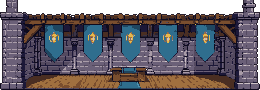
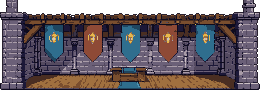
Lanternhold M1b polish 3: no visible repetition (art review, high): the throat rock right of the castle is other rock than the left (throatRock: gorgewall-b's strata with a cave; cliffFlankB: the rocks-a middle rock), so the gate view is no mirror; the ground strip draws one of four tiles per positi

Changed region(s): [[0.5846, 0.2667, 0.7077, 0.6889], [0.3077, 0.2667, 0.4, 0.6889]]

diff --git a/games/lanternhold/Tests/FrameBuilderTests.swift b/games/lanternhold/Tests/FrameBuilderTests.swift
@@ -164,7 +164,7 @@ final class FrameBuilderTests: XCTestCase {
         XCTAssertGreaterThanOrEqual(glass.count, 6, "the keep's and the towers' windows")
         XCTAssertTrue(glass.contains { $0.sprite == .keepTop })
         XCTAssertTrue(glass.contains { $0.sprite == .castleFront })
-        for sprite in [SpriteID.castleFront, .keepTop, .cliffFlank, .gorgeWallHigh] {
+        for sprite in [SpriteID.castleFront, .keepTop, .cliffFlank, .cliffFlankB, .throatRock] {
             XCTAssertTrue(castle.layer(.world).sprites.contains { $0.sprite == sprite }, "\(sprite) at the gate")
         }
         XCTAssertEqual(castle.actors.filter { $0.sprite == .archer }.count, 3, "archers on the wall walk")
@@ -183,7 +183,8 @@ final class FrameBuilderTests: XCTestCase {
         XCTAssertTrue(town.layer(.mid).sprites.contains { $0.sprite == .keepFar }, "the keep seen from the town")
         XCTAssertTrue(town.layer(.mid).sprites.contains { $0.sprite == .windmill })
         var castleWindows = 0
-        for prop in PlaceholderScene.world().props where prop.plane == .world && prop.sprite != .house {
+        let cottages: Set<SpriteID> = [.house, .houseB, .houseC]
+        for prop in PlaceholderScene.world().props where prop.plane == .world && !cottages.contains(prop.sprite) {
             castleWindows += prop.masks.count + prop.emissive.filter { $0.sprite == .windowGlow }.count
         }
         XCTAssertEqual(castleWindows, 17, "keep 2, front 4, courtyard 1, chapel 4, kitchen 2, back gate 4")
@@ -298,7 +299,8 @@ final class FrameBuilderTests: XCTestCase {
         XCTAssertEqual(Camera(focusX: 5000, pixelScale: pixelScale).x, 3900 - pixelScale.visibleColumns)
         let river = frame(timeOfDay: 0.5, focus: 3720)
         let whole = Double(river.layer(.world).offset.whole)
-        let ground = river.layer(.world).sprites.filter { $0.sprite == .ground }
+        let groundTiles: Set<SpriteID> = [.ground, .groundB, .groundC, .groundD]
+        let ground = river.layer(.world).sprites.filter { groundTiles.contains($0.sprite) }
         XCTAssertFalse(ground.isEmpty)
         for tile in ground {
             XCTAssertLessThan(Double(tile.rect.x) + whole, WorldLayout.groundTileEnd, "ground tiles end at the bank")
@@ -418,6 +420,21 @@ final class FrameBuilderTests: XCTestCase {
         }
     }
 
+    func testGroundTilesJoinAndVary() {
+        // Each tile's edges match its neighbours' (the big stone either wraps across a boundary or neither side has
+        // it), and the stones do not repeat at the tile's rhythm.
+        var used: Set<SpriteID> = []
+        for index in 0..<58 {
+            let tile = FrameBuilder.groundTile(index)
+            let next = FrameBuilder.groundTile(index + 1)
+            let rightStone = tile == .ground || tile == .groundC
+            let nextLeftStone = next == .ground || next == .groundB
+            XCTAssertEqual(rightStone, nextLeftStone, "tiles \(index) and \(index + 1) join")
+            used.insert(tile)
+        }
+        XCTAssertEqual(used.count, 4, "all four variants appear along the world")
+    }
+
     func testTheKeepShowsFromTheGorge() {
         // The approach: the keep seen from the gorge stands on its rock plateau above the lowered throat rock, its
         // windows lit at night; the castle front's towers end on screen (their crowns at y 132 to 172).
@@ -446,7 +463,8 @@ final class FrameBuilderTests: XCTestCase {
                 XCTAssertLessThanOrEqual(Int(mask.dy) + mask.height, prop.height, "\(prop.sprite) at \(prop.x)")
             }
         }
-        XCTAssertEqual(masks, 25, "keep 2, front 4, courtyard 1, back gate 4, houses 8, the valley's keep 4, the gorge's 2")
+        XCTAssertEqual(masks, 26,
+                       "keep 2, front 4, courtyard 1, back gate 4, houses 8 and a dormer, the valley's keep 4, the gorge's 2")
         // In a frame each glass quad lies inside its prop's quad, mirrored with it.
         for focus in [1360.0, 1650, 2330, 2900] {
             let desc = frame(timeOfDay: 0.95, focus: focus)
@@ -460,7 +478,7 @@ final class FrameBuilderTests: XCTestCase {
         // A mirrored house's left window shows the sprite's right pane: x 64 − 46 − 5 = 13 from its left edge.
         let town = frame(timeOfDay: 0.95, focus: 2830)
         let whole = Float(town.layer(.world).offset.whole)
-        let mirrored = town.emissives.filter { $0.kind == .glass && $0.sprite == .house && $0.flipped }
+        let mirrored = town.emissives.filter { $0.kind == .glass && $0.sprite == .houseB && $0.flipped }
         XCTAssertTrue(mirrored.contains { $0.rect.x == 2800 + 13 - whole && $0.source.x == 46 })
     }
 
@@ -546,10 +564,10 @@ final class FrameBuilderTests: XCTestCase {
         "torchPost world x=978 y=38 z=2 shade=1.00 flip=0 anchor=ground region=gorge em=[flame@0,12:fireGold:fades] li=[torch@980,53,30]",
         "brazier world x=891 y=0 z=3 shade=1.00 flip=0 anchor=ground region=gorge em=[brazierFlame@1,11:fireOrange:steady] li=[brazier@896,16,56]",
         "brazier world x=915 y=0 z=3 shade=1.00 flip=0 anchor=ground region=gorge em=[brazierFlame@1,11:fireOrange:steady] li=[brazier@920,16,56]",
-        "cliffFlank world x=1110 y=-155 z=-5 shade=0.70 flip=0 anchor=ground region=gorge em=[] li=[]",
-        "gorgeWallHigh world x=1518 y=0 z=-5 shade=0.70 flip=0 anchor=ground region=castle em=[] li=[]",
+        "cliffFlankB world x=1110 y=-155 z=-5 shade=0.70 flip=0 anchor=ground region=gorge em=[] li=[]",
+        "throatRock world x=1518 y=0 z=-5 shade=0.70 flip=0 anchor=ground region=castle em=[] li=[]",
         "cliffFlank world x=1187 y=0 z=-3 shade=0.62 flip=0 anchor=ground region=gorge em=[] li=[]",
-        "cliffFlank world x=1453 y=0 z=-1 shade=0.62 flip=1 anchor=ground region=castle em=[] li=[]",
+        "cliffFlankB world x=1453 y=0 z=-1 shade=0.62 flip=1 anchor=ground region=castle em=[] li=[]",
         "keepTop world x=1286 y=40 z=-4 shade=1.00 flip=0 anchor=ground region=gorge em=[glass@69,30,13x10 glass@113,30,12x10] li=[]",
         "castleFront world x=1240 y=0 z=0 shade=1.00 flip=0 anchor=ground region=gorge em=[brazierFlame@93,130:fireOrange:steady brazierFlame@138,130:fireOrange:steady flame@90,61:fireGold:fades flame@145,61:fireGold:fades glass@29,96,6x15 glass@202,89,6x15 glass@29,69,6x15 glass@202,69,6x15] li=[brazier@1337,136,44 brazier@1382,136,44 torch@1332,64,30 torch@1387,64,30 lantern@1360,40,34]",
         "castleWall world x=1580 y=0 z=-2 shade=1.00 flip=0 anchor=ground region=castle em=[] li=[]",
@@ -567,9 +585,9 @@ final class FrameBuilderTests: XCTestCase {
         "castleBackGate world x=2230 y=0 z=0 shade=1.00 flip=0 anchor=ground region=castle em=[lanternGlass@51,95:fireGold:fades lanternGlass@136,95:fireGold:fades glass@28,107,10x20 glass@166,107,10x20 glass@28,72,10x20 glass@166,72,10x20] li=[lantern@2283,97,40 lantern@2368,97,40 window@2263,117,8 window@2401,117,8]",
         "house world x=2480 y=0 z=0 shade=0.97 flip=0 anchor=ground region=valley em=[glass@11,8,5x6 glass@46,8,5x6] li=[window@2493,11,8 window@2528,11,8]",
         "lanternPost world x=2548 y=0 z=1 shade=1.00 flip=0 anchor=ground region=valley em=[lanternGlass@1,18:fireGold:fades] li=[lantern@2551,20,28]",
-        "house world x=2800 y=0 z=0 shade=0.97 flip=1 anchor=ground region=valley em=[glass@11,8,5x6 glass@46,8,5x6] li=[window@2850,11,8 window@2815,11,8]",
+        "houseB world x=2800 y=0 z=0 shade=0.97 flip=1 anchor=ground region=valley em=[glass@11,8,5x6 glass@46,8,5x6] li=[window@2850,11,8 window@2815,11,8]",
         "lanternPost world x=2868 y=0 z=1 shade=1.00 flip=0 anchor=ground region=valley em=[lanternGlass@1,18:fireGold:fades] li=[lantern@2871,20,28]",
-        "house world x=2900 y=0 z=0 shade=0.97 flip=0 anchor=ground region=valley em=[glass@11,8,5x6 glass@46,8,5x6] li=[window@2913,11,8 window@2948,11,8]",
+        "houseC world x=2900 y=0 z=0 shade=0.97 flip=0 anchor=ground region=valley em=[glass@11,8,5x6 glass@46,8,5x6 glass@27,33,3x2] li=[window@2913,11,8 window@2948,11,8]",
         "lanternPost world x=2968 y=0 z=1 shade=1.00 flip=0 anchor=ground region=valley em=[lanternGlass@1,18:fireGold:fades] li=[lantern@2971,20,28]",
         "house world x=3090 y=0 z=0 shade=0.97 flip=1 anchor=ground region=valley em=[glass@11,8,5x6 glass@46,8,5x6] li=[window@3140,11,8 window@3105,11,8]",
         "lanternPost world x=3158 y=0 z=1 shade=1.00 flip=0 anchor=ground region=valley em=[lanternGlass@1,18:fireGold:fades] li=[lantern@3161,20,28]",

diff --git a/games/lanternhold/Core/SceneLayout.swift b/games/lanternhold/Core/SceneLayout.swift
@@ -273,10 +273,12 @@ enum SceneLayout {
         // straight edges hide behind the towers (the right one in front of the courtyard wall), the keep behind the
         // gatehouse. On the left a rock shoulder 155 px low (its top at y 85), so the keep seen from the gorge rises
         // above it (polish after the art review: the high rock's flat overhang read as a table there).
-        list.append(Entry(sprite: .cliffFlank, x: front - 130, y: -155, z: -5, shade: rockShade))
-        list.append(Entry(sprite: .gorgeWallHigh, x: front + 278, y: 0, z: -5, shade: rockShade))
+        list.append(Entry(sprite: .cliffFlankB, x: front - 130, y: -155, z: -5, shade: rockShade))
+        // The right side is other rock than the left (strata with a cave, the rocks-a middle rock as its flank), so
+        // the gate view is no mirror and the rock does not repeat like wallpaper.
+        list.append(Entry(sprite: .throatRock, x: front + 278, y: 0, z: -5, shade: rockShade))
         list.append(Entry(sprite: .cliffFlank, x: front - 53, y: 0, z: -3, shade: flankShade))
-        list.append(Entry(sprite: .cliffFlank, x: front + 213, y: 0, z: -1, shade: flankShade, flipped: true))
+        list.append(Entry(sprite: .cliffFlankB, x: front + 213, y: 0, z: -1, shade: flankShade, flipped: true))
         // Only the keep's top 130 rows stand behind the gatehouse, 40 px up, so its crown and flag rise above the
         // gatehouse between the towers' crowns (top at y 170); the front hides its top window row (the lower 10 rows
         // of each window would glow: lamplight low in the room).
@@ -338,12 +340,16 @@ enum SceneLayout {
 
         // The town: four houses (every second one mirrored) with their window glass and a lantern post each, the
         // field, the well; the river closes the world (the bank drops to the water, two stumps of the old bridge).
+        // Tile, slate, thatch with a dormer (its window glows too), tile: three cottages in a row read as clones.
         let houses = WorldLayout.townPlots.filter { $0.kind == .house }
+        let cottages: [SpriteID] = [.house, .houseB, .houseC, .house]
         for (index, plot) in houses.enumerated() {
             let start = plot.start
             let mirrored = index % 2 == 1
-            list.append(Entry(sprite: .house, x: start, y: 0, z: 0, shade: 0.97, flipped: mirrored,
-                              emitters: [glass(11, 8, 5, 6), glass(46, 8, 5, 6)],
+            let sprite = cottages[index % cottages.count]
+            let dormer = sprite == .houseC ? [glass(27, 33, 3, 2)] : []
+            list.append(Entry(sprite: sprite, x: start, y: 0, z: 0, shade: 0.97, flipped: mirrored,
+                              emitters: [glass(11, 8, 5, 6), glass(46, 8, 5, 6)] + dormer,
                               lights: [window(start + (mirrored ? 50 : 13), 11, 8),
                                        window(start + (mirrored ? 15 : 48), 11, 8)]))
             list.append(Entry(sprite: .lanternPost, x: start + 68, y: 0, z: 1,

diff --git a/games/lanternhold/Core/FrameDesc.swift b/games/lanternhold/Core/FrameDesc.swift
@@ -20,10 +20,10 @@ enum SpriteID: String, Sendable, CaseIterable, Equatable {
     // Fog planes
     case fogStrip
     // World plane
-    case ground, darknessBank, darknessEdge
+    case ground, groundB, groundC, groundD, darknessBank, darknessEdge
     case beaconRuin, palisade, stoneWall, torchPost, brazier, ballista
-    case cliffFlank, castleKeep, keepTop, castleFront, castleWall, hallInterior, throne, hearth, candleStand, chapel, kitchen
-    case castleBackGate, house, lanternPost, field, well, riverEnd
+    case cliffFlank, cliffFlankB, throatRock, castleKeep, keepTop, castleFront, castleWall, hallInterior, throne, hearth, candleStand, chapel, kitchen
+    case castleBackGate, house, houseB, houseC, lanternPost, field, well, riverEnd
     // Emissive parts
     case flame, brazierFlame, hearthFire, candleFlame, windowGlow, lanternGlass, eyeGlints
     // Actors
@@ -58,7 +58,7 @@ enum SpriteID: String, Sendable, CaseIterable, Equatable {
         case .riverFarBank: return PixelSize(width: 240, height: 30)
         case .keepFar: return PixelSize(width: 98, height: 237)
         case .fogStrip: return PixelSize(width: 128, height: 24)
-        case .ground: return PixelSize(width: 64, height: 26)
+        case .ground, .groundB, .groundC, .groundD: return PixelSize(width: 64, height: 26)
         case .darknessBank: return PixelSize(width: 64, height: 236)
         case .darknessEdge: return PixelSize(width: 32, height: 236)
         case .beaconRuin: return PixelSize(width: 64, height: 130)
@@ -67,7 +67,8 @@ enum SpriteID: String, Sendable, CaseIterable, Equatable {
         case .torchPost: return PixelSize(width: 4, height: 14)
         case .brazier: return PixelSize(width: 10, height: 14)
         case .ballista: return PixelSize(width: 28, height: 16)
-        case .cliffFlank: return PixelSize(width: 80, height: 240)
+        case .cliffFlank, .cliffFlankB: return PixelSize(width: 80, height: 240)
+        case .throatRock: return PixelSize(width: 192, height: 240)
         case .castleKeep: return PixelSize(width: 150, height: 250)
         case .keepTop: return PixelSize(width: 150, height: 130)
         case .castleFront: return PixelSize(width: 240, height: 236)
@@ -79,7 +80,7 @@ enum SpriteID: String, Sendable, CaseIterable, Equatable {
         case .chapel: return PixelSize(width: 160, height: 96)
         case .kitchen: return PixelSize(width: 120, height: 80)
         case .castleBackGate: return PixelSize(width: 200, height: 200)
-        case .house: return PixelSize(width: 64, height: 46)
+        case .house, .houseB, .houseC: return PixelSize(width: 64, height: 46)
         case .lanternPost: return PixelSize(width: 6, height: 24)
         case .field: return PixelSize(width: 80, height: 8)
         case .well: return PixelSize(width: 18, height: 20)

diff --git a/games/lanternhold/Core/FrameBuilder.swift b/games/lanternhold/Core/FrameBuilder.swift
@@ -252,10 +252,34 @@ enum FrameBuilder {
             guard geometry.isVisible(left: left, width: tile) else { continue }
             let top = geometry.top(y: -Double(size.height), height: Double(size.height))
             let rect = SIMD4<Float>(Float(left), Float(top), Float(size.width), Float(size.height))
-            list.append(SpriteInstance(sprite: .ground, frame: 0, rect: rect, tint: SIMD4<Float>(1, 1, 1, 1),
-                                       flipped: false))
+            list.append(SpriteInstance(sprite: groundTile(index), frame: 0, rect: rect,
+                                       tint: SIMD4<Float>(1, 1, 1, 1), flipped: false))
         }
         return list
+    }
+
+    /// The ground tile at `index` (polish after the art review: one 64 px tile repeated put its stones at a fixed
+    /// rhythm). Each tile boundary either carries the big stone that wraps across it or plain soil, picked by a hash of
+    /// the boundary; the tile whose edges match both of its boundaries is drawn, so neighbours always join.
+    static func groundTile(_ index: Int) -> SpriteID {
+        let left = groundEdgeHasStone(index)
+        let right = groundEdgeHasStone(index + 1)
+        switch (left, right) {
+        case (true, true): return .ground
+        case (true, false): return .groundB
+        case (false, true): return .groundC
+        case (false, false): return .groundD
+        }
+    }
+
+    /// Whether the big stone wraps across the boundary left of ground tile `index` (a fixed integer hash, the same as
+    /// tools/scenemock/mock.py's).
+    static func groundEdgeHasStone(_ index: Int) -> Bool {
+        var h = UInt32(truncatingIfNeeded: index) &* 0x9E37_79B1
+        h ^= h >> 16
+        h = h &* 0x85EB_CA6B
+        h ^= h >> 13
+        return (h >> 7) & 1 == 0
     }
 
     /// The darkness bank: dark tiles from the world's left end up to its edge, drawn in front of the world props.

diff --git a/games/lanternhold/Render/PlaceholderArt.swift b/games/lanternhold/Render/PlaceholderArt.swift
@@ -18,13 +18,14 @@ enum PlaceholderArt {
         case .farMountain: frames = [farRange(salt, size: size, peaks: [(36, 56), (98, 66), (142, 42)])]
         case .valleyFarA, .valleyFarB, .valleyFarC:
             frames = [farRange(salt, size: size, peaks: [(30, 52), (96, 70), (160, 48)])]
-        case .gorgeWallA, .gorgeWallB, .gorgeWallC, .gorgeWallHigh, .wardenStatue, .gorgeMouth, .cliffFlank,
+        case .gorgeWallA, .gorgeWallB, .gorgeWallC, .gorgeWallHigh, .wardenStatue, .gorgeMouth, .cliffFlank, .cliffFlankB,
+             .throatRock,
              .fgRockA, .fgRockB, .fgRockC, .fgOverhangA, .fgOverhangB:
             frames = [cliff(salt, size: size)]
         case .valleyMidA, .valleyMidB, .valleyMidC, .windmill, .riverFarBank: frames = [hills(salt, size: size)]
         case .riverEnd: frames = [river(salt, size: size)]
         case .fogStrip: frames = [fogStrip(salt)]
-        case .ground: frames = [ground(salt)]
+        case .ground, .groundB, .groundC, .groundD: frames = [ground(salt)]
         case .darknessBank: frames = [darknessBank(salt)]
         case .darknessEdge: frames = [darknessEdge(salt)]
         default:

diff --git a/games/lanternhold/Render/PlaceholderBuildings.swift b/games/lanternhold/Render/PlaceholderBuildings.swift
@@ -13,7 +13,7 @@ enum PlaceholderBuildings {
         case .hallInterior: return [hallInterior(salt)]
         case .chapel: return [chapel(salt)]
         case .kitchen: return [kitchen(salt)]
-        case .house: return [house(salt)]
+        case .house, .houseB, .houseC: return [house(salt)]
         case .field: return [field(salt)]
         case .well: return [well(salt)]
         default: return []

diff --git a/games/lanternhold/tools/procart.py b/games/lanternhold/tools/procart.py
@@ -19,6 +19,12 @@ exactly reproducible.
                                                             reeds, the far bridge stump (M1b polish)
   procart.py slopebands <in.png> <out.png> --rect x0,y0,x1,y1   repaints a grass slope in a finished sprite: irregular
                                                             edge, three value bands, tuft clusters (M1b polish)
+  procart.py ground    <base.png> <out.png> --seed N --left stone|plain --right stone|plain
+                                                            a variant of the 64x26 ground tile: the grass rows kept,
+                                                            each bottom edge either the base's big wrapping stone or
+                                                            plain soil (the scene picks one per tile boundary, so
+                                                            neighbours always join), pebbles and stones reseeded with
+                                                            jittered spacing (polish after the art review)
   procart.py cylinder  <in.png> <out.png> --rect x0,y0,x1,y1 --bands a-b:+1,c-d:-1 [--ramp names]
                                                             rounds a flat tower: shifts every ramp colour in the rect
                                                             by its column's band (+1 one step lighter), the band edges
@@ -479,6 +485,67 @@ def cmd_slopebands(a):
     c.save(a.output)
 
 
+def cmd_ground(a):
+    """Polish after the art review: the soil strip carried its stones at the tile's fixed 64 px rhythm. A variant keeps
+    the base tile's grass (rows 0-8) and the bottom band's edge columns (0-9 and 50-63, where the big stone wraps), so
+    any two variants join seamlessly; the soil between is refilled and gets new pebbles (rows 10-16) and one or two of
+    the base's stones (cut from it) in the bottom band, at seeded positions with jittered spacing."""
+    from pixelart import read_png
+    base, _ = read_png(a.input)
+    W, H = base.w, base.h
+    rng = random.Random(a.seed * 7919 + 17)
+    out = Image(W, H, list(base.px))
+    soil = base.get(20, 10)
+    band = base.get(30, 24)
+
+    def put(x, y, p):
+        if 0 <= x < W and 0 <= y < H:
+            out.set(x, y, p)
+
+    # clear the soil and the middle of the bottom band; a plain edge clears its part of the big wrapping stone too
+    lo = 10 if a.left == "stone" else 0
+    hi = 50 if a.right == "stone" else W
+    for y in range(9, 24):
+        for x in range(W):
+            if y >= 16 and (x < lo or x >= hi):
+                continue
+            put(x, y, soil)
+    for x in range(lo, hi):
+        put(x, 24, band)
+        put(x, 25, base.get(x, 25))
+    # pebbles: the base's small light pebbles and dark grit, cut from it, stamped with jittered spacing
+    pebbles = [(6, 11, 3, 2), (13, 12, 2, 2), (21, 11, 2, 2), (31, 12, 6, 2), (43, 11, 3, 3), (50, 13, 2, 2),
+               (10, 16, 3, 3), (30, 16, 2, 2)]
+    x = rng.randint(2, 8)
+    while x < W - 4:
+        px, py, pw, ph = rng.choice(pebbles)
+        if x + pw <= W - 2:
+            y = rng.randint(10, 15)
+            for j in range(ph):
+                for i in range(pw):
+                    p = base.get(px + i, py + j)
+                    if p != soil and p[3]:
+                        put(x + i, y + j, p)
+        x += pw + rng.randint(5, 13)
+    # stones in the bottom band: the base's mid stone (cols 16-26, rows 20-25) and small one (cols 35-38, rows 22-24)
+    stones = [(16, 20, 11, 6), (35, 22, 4, 3), (40, 18, 4, 3)]
+    picks = [stones[0], rng.choice(stones[1:])] if rng.random() < 0.7 else [rng.choice(stones[1:])]
+    taken = []
+    for (sx, sy, sw, sh) in picks:
+        for _ in range(20):
+            x = rng.randint(lo + 1, hi - 1 - sw)
+            if all(x + sw + 2 < t0 or x > t1 + 2 for t0, t1 in taken):
+                break
+        taken.append((x, x + sw))
+        for j in range(sh):
+            for i in range(sw):
+                p = base.get(sx + i, sy + j)
+                if p != soil and p[3]:
+                    put(x + i, sy + j, p)
+    write_png(a.output, out)
+    print(f"wrote {a.output} {W}x{H} (ground variant, seed {a.seed})")
+
+
 def cmd_cylinder(a):
     """Polish after the art review: a tower painted as a flat strip reads as cardboard. Every pixel inside the rect whose
     colour is on the ramp (default the castle stone ramp, darkest first) moves along it by its column's band: a lit
@@ -552,6 +619,13 @@ def main():
     sb.add_argument("--tufts", type=int, default=24)
     sb.add_argument("--palette", default=DEFAULT_PALETTE)
     sb.set_defaults(fn=cmd_slopebands)
+    gv = sub.add_parser("ground")
+    gv.add_argument("input")
+    gv.add_argument("output")
+    gv.add_argument("--seed", type=int, default=1)
+    gv.add_argument("--left", choices=["stone", "plain"], default="stone")
+    gv.add_argument("--right", choices=["stone", "plain"], default="stone")
+    gv.set_defaults(fn=cmd_ground)
     cy = sub.add_parser("cylinder")
     cy.add_argument("input")
     cy.add_argument("output")

diff --git a/games/lanternhold/tools/scenemock/layout_m1b.py b/games/lanternhold/tools/scenemock/layout_m1b.py
@@ -203,15 +203,17 @@ WORLD = [
     # gorgeWallC lies behind the flanks on both sides.)
     # (polish after the art review: a rock shoulder 155 px low, its top at y 85, so the keep seen from the gorge rises
     # above it; the high rock's flat overhang read as a table there, a gorge-wall tile showed its straight cut)
-    dict(s="cliffFlank", x=F - 130, y=-155, z=-5, shade=ROCK_SHADE),
-    dict(s="gorgeWallHigh", x=F + 278, y=0, z=-5, shade=ROCK_SHADE),  # its cut left edge just behind the right flank;
-                                                                     # shows other columns than the mirrored copy
+    dict(s="cliffFlankB", x=F - 130, y=-155, z=-5, shade=ROCK_SHADE),
+    # (polish after the art review: the right side is other rock than the left, so the gate view is not a mirror and
+    # the rock no longer repeats like wallpaper: strata with a cave from gorgewall-b, its cut left edge just behind the
+    # right flank, and the rocks-a middle rock as the flank)
+    dict(s="throatRock", x=F + 278, y=0, z=-5, shade=ROCK_SHADE),
     # cliffFlank is plain rock (the left cliff of rocks-a); its straight right edge hides behind the tower bodies,
     # which start 10 px inside the front's edges. The right one stands in FRONT of the courtyard wall (z -1), so from
     # the gate view rock rises right of the right tower from the ground to above the screen; the wall run starts
     # behind it.
     dict(s="cliffFlank", x=F - 53, y=0, z=-3, shade=FLANK_SHADE),
-    dict(s="cliffFlank", x=F + 213, y=0, z=-1, flip=True, shade=FLANK_SHADE),
+    dict(s="cliffFlankB", x=F + 213, y=0, z=-1, flip=True, shade=FLANK_SHADE),
     # Polish after the art review: only the keep's top 130 rows (keepTop) stand behind the gatehouse, 40 px up, so its
     # crenellated crown and flag rise above the gatehouse between the towers' crowns (top at y 170); its top window row
     # stays behind the gatehouse (the front's occluder hides the glass; the two small window lights are gone)
@@ -255,9 +257,11 @@ WORLD = [
              ("window", B + 33, 117, 8), ("window", B + 171, 117, 8)]),
     # --- the town (moved 100 px right) ---
     *[x for n, start in enumerate((2480, 2800, 2900, 3090)) for x in (
-        dict(s="house", x=start, y=0, z=0, shade=0.97, flip=n % 2 == 1,
-             # window glass only (the four night1 panes of each half-timbered window), no soft glow sprite
-             em=[("mask", 11, 8, 5, 6, WIN), ("mask", 46, 8, 5, 6, WIN)],
+        # (polish after the art review: tile, slate, thatch with a dormer, tile; every second one mirrored)
+        dict(s=("house", "houseB", "houseC", "house")[n], x=start, y=0, z=0, shade=0.97, flip=n % 2 == 1,
+             # window glass only (the four night1 panes of each half-timbered window), no soft glow sprite; the
+             # thatched cottage's dormer window too
+             em=[("mask", 11, 8, 5, 6, WIN), ("mask", 46, 8, 5, 6, WIN)] + ([("mask", 27, 33, 3, 2, WIN)] if n == 2 else []),
              li=[("window", start + (64 - 13 - 1 if n % 2 == 1 else 13), 11, 8),
                  ("window", start + (64 - 48 - 1 if n % 2 == 1 else 48), 11, 8)]),
         dict(s="lanternPost", x=start + 68, y=0, z=1, em=[("sprite", "lanternGlass", 1, 18, GOLD, True)],

diff --git a/games/lanternhold/tools/scenemock/mock.py b/games/lanternhold/tools/scenemock/mock.py
@@ -200,10 +200,16 @@ def render(chapelWin=((30, 52), (77, 52), (124, 52)), kitchenWin=((28, 40), (86,
     if LAB:
         for row in (1, 0):
             for x in range(0, TW, 40): draw('world', sprite('castleWall'), x, GROUND - 90 * (row + 1), (0.96, 0.96, 0.96, 1))
+    def edge_stone(k):  # the same hash as FrameBuilder.groundEdgeHasStone (polish after the art review)
+        h = (k * 0x9E3779B1) & 0xFFFFFFFF; h ^= h >> 16; h = (h * 0x85EBCA6B) & 0xFFFFFFFF; h ^= h >> 13
+        return (h >> 7) & 1 == 0
     for x in range(0, TW + 64, 64): 
         wx = math.floor(whole['world'] / 64) * 64 + x
         if LAYOUT and wx >= LM.GROUND_TILE_END: continue
-        draw('world', ground, int(wx - whole['world']), GROUND)
+        k = wx // 64
+        tile = ground if not LAYOUT else sprite({(True, True): 'ground', (True, False): 'groundB', (False, True): 'groundC',
+                                                (False, False): 'groundD'}[(edge_stone(k), edge_stone(k + 1))])
+        draw('world', tile, int(wx - whole['world']), GROUND)
     # sky
     if amb['stars'] > 0.01:
         for row in (0, 64):
